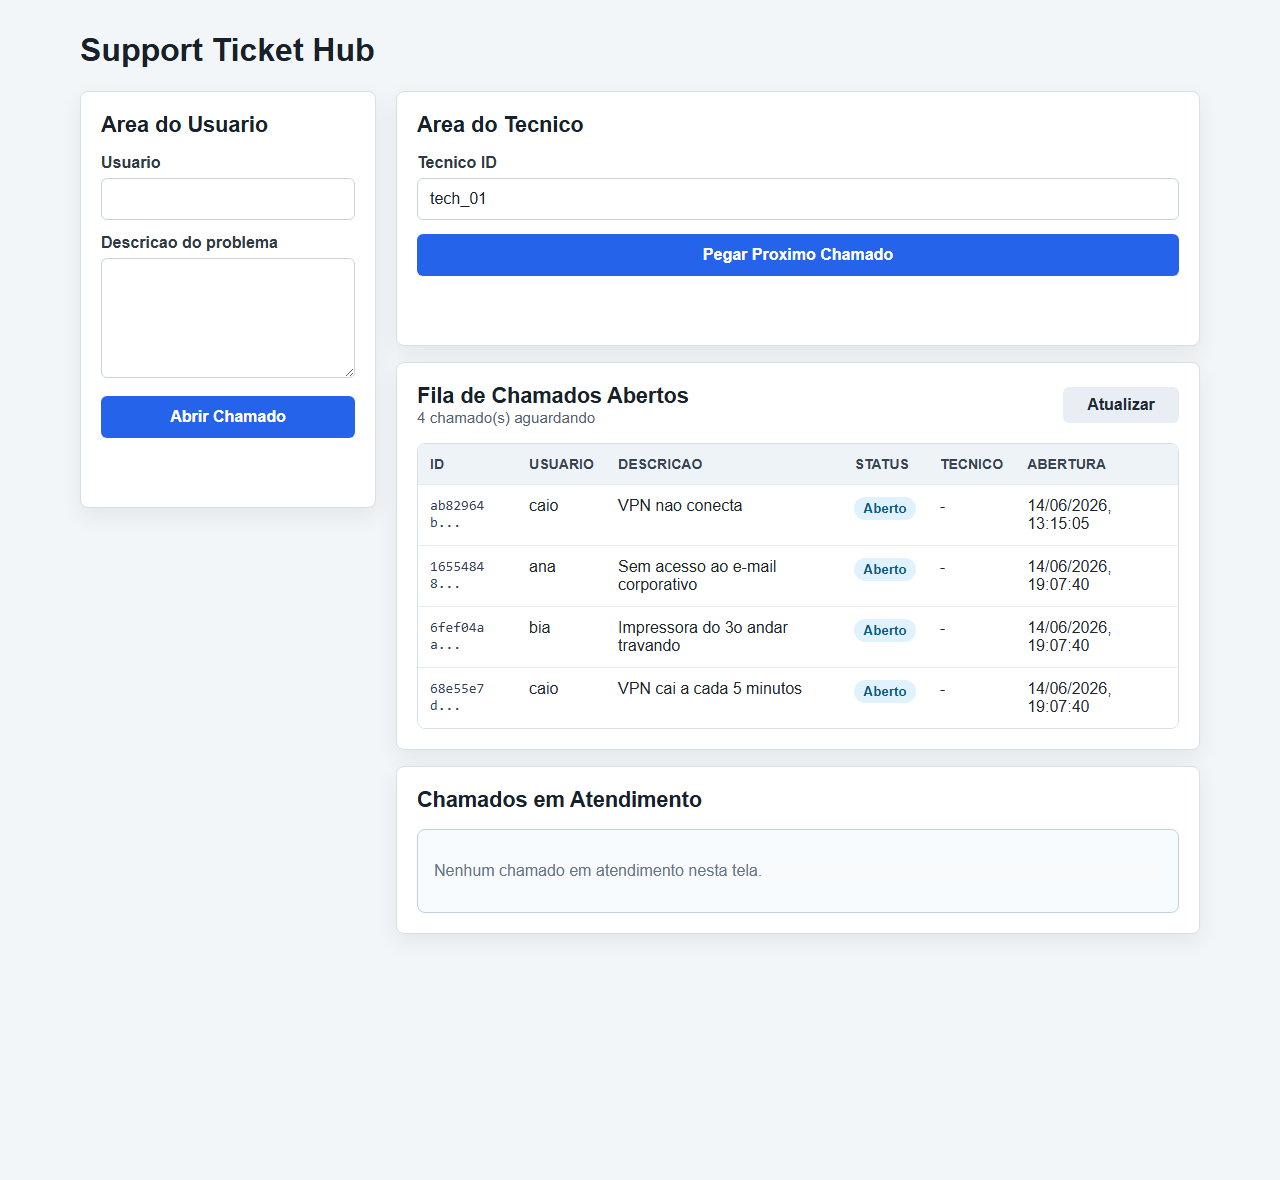
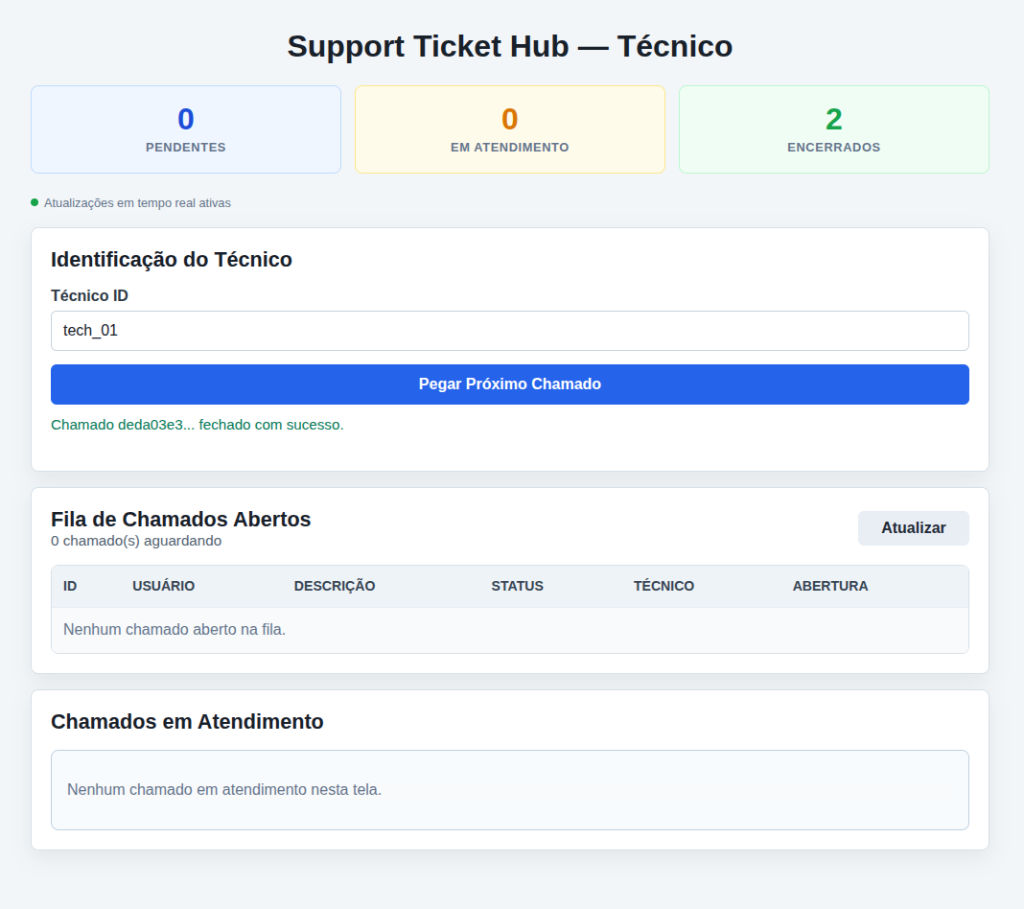
feat: atualizando imagens

diff --git a/README.md b/README.md
@@ -342,42 +342,36 @@ Essa demonstração visual é o equivalente gráfico do teste automático `test_
 Os prints abaixo são complementares à demonstração de terminal e foram tirados com backend e
 Redis no Docker e o frontend servido localmente.
 
-### Tela do usuário — abrir chamado
+### Painel do Usuário — abertura e acompanhamento ao vivo
 
-![Tela do usuário](docs/img/01-usuario.png)
+![Painel do Usuário](docs/img/01-usuario.png)
 
-O usuário informa o nome e a descrição do problema e clica em "Abrir Chamado". Isso dispara um
-`POST /tickets` e o chamado entra no fim da fila com status `OPEN`.
+Na interface `usuario.html`, o cliente informa o nome e a descrição do problema para abrir o chamado (`POST /tickets`). A seção inferior **Meus Chamados** lista os tickets solicitados e sincroniza suas mudanças de status instantaneamente (*Aguardando*, *Em atendimento* ou *Encerrado*) através da escuta contínua de eventos SSE emitidos pelo backend, evidenciada pelo indicador verde *Ao vivo*.
 
-### Página única (usuário + técnico)
+### Painel do Técnico — visão inicial e contadores em tempo real
 
-![Página index com a fila](docs/img/02-index-fila.png)
+![Painel do Técnico inicial](docs/img/02-index-fila.png)
 
-A `index.html` junta as duas áreas numa tela só, boa pra testar o fluxo inteiro. A fila de
-chamados abertos, à direita, se atualiza sozinha a cada 3 segundos (`GET /tickets`).
+O painel `tecnico.html` centraliza a operação de suporte apresentando cards numéricos dinâmicos no topo (*Pendentes*, *Em Atendimento* e *Encerrados*) que refletem o estado global da fila no Redis. O indicador verde ao lado do formulário confirma a conexão ativa via Server-Sent Events (SSE). Quando não há chamados, o sistema exibe mensagens de feedback claras na tabela.
 
-### Tela do técnico — fila de chamados
+### Painel do Técnico — fila de chamados pendentes
 
-![Tela do técnico com a fila](docs/img/03-tecnico-fila.png)
+![Painel do Técnico com fila](docs/img/03-tecnico-fila.png)
 
-O técnico vê os chamados em ordem de chegada. Ao clicar em "Pegar Próximo Chamado", o primeiro
-da fila é atribuído a ele através de `PATCH /tickets/next`.
+Quando novos chamados são abertos, eles surgem instantaneamente na tabela **Fila de Chamados Abertos** em ordem cronológica de chegada (FIFO), incrementando o contador de *Pendentes*. Ao clicar no botão azul **Pegar Próximo Chamado**, o servidor executa o script Lua atômico no Redis (`PATCH /tickets/next`), garantindo a exclusividade da atribuição.
 
-### Tela do técnico — chamados em atendimento
+### Painel do Técnico — atendimento exclusivo e encerramento
 
 ![Chamados em atendimento](docs/img/05-tecnico-atendimento.png)
 
-Cada chamado que o técnico pega vira um card próprio, com seu botão "Fechar Chamado"
-(`PATCH /tickets/{id}/close`). Dá pra ter vários em atendimento ao mesmo tempo, refletindo o
-que o backend permite (vários `IN_PROGRESS`).
+Após a atribuição bem-sucedida, o chamado sai da fila geral e vira um card exclusivo na seção **Chamados em Atendimento**, associado ao ID do profissional. Ao concluir o suporte, o clique no botão vermelho **Fechar Chamado** (`PATCH /tickets/{id}/close`) encerra o ciclo, atualizando os contadores em todas as telas conectadas sem recarregar a página.
 
-### Documentação automática da API (Swagger)
+### Documentação automática da API (Swagger UI)
 
 ![Swagger em /docs](docs/img/04-swagger.png)
 
-O FastAPI gera essa documentação interativa em `http://127.0.0.1:8000/docs`. Ela lista todos os
-endpoints e os schemas de entrada e saída (`TicketCreate`, `TicketAssign`, `TicketResponse`) e
-ainda dá pra testar as rotas direto por ali.
+Gerada automaticamente pelo FastAPI em `http://localhost:8000/docs`, a interface interativa lista todos os endpoints REST (`/tickets`, `/events`, `/health`) e seus esquemas de dados Pydantic (`TicketCreate`, `TicketAssign`, `TicketResponse`), permitindo testar diretamente o protocolo e verificar as respostas HTTP.
+
 
 ## Estrutura de pastas
 
